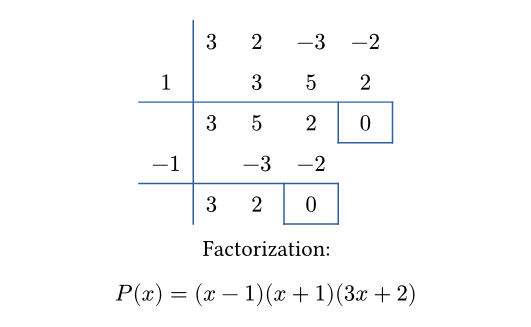
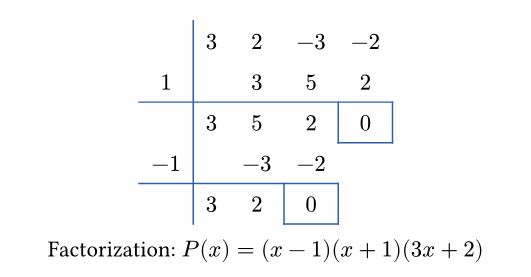
Add exact rational arithmetic (fractions) and a variable parameter

diff --git a/README.md b/README.md
@@ -37,6 +37,18 @@ terms: `x³ − 2x² + 1` → `(1, -2, 0, 1)`.
 **Divisor convention:** `root` is the `a` in `(x − a)`. To divide by `(x + 3)`,
 pass `root: -3`.
 
+**Exact fractions.** Arithmetic is exact (rational), not floating-point. Pass any
+non-integer value **as a string** so it stays exact and renders as a fraction —
+`"1/3"`, `"-3/4"`, both for `root` and inside `coefficients`. (Writing `1/3`
+directly would be evaluated to `0.333…` by Typst before the package sees it.)
+
+```typ
+#ruffini((2, -1, -1), "-1/2")   // divide by (x + 1/2); shows −1/2 as a fraction
+```
+
+**Variable.** The rendered labels use `x` by default; pass `variable: "t"` (or any
+letter) to write `C(t)`, `P(z)`, `(t − 2)`, …
+
 ## `ruffini(coefficients, root, ...)`
 
 One division `P(x) ÷ (x − root)`, rendered as the three-row tableau
@@ -44,9 +56,10 @@ One division `P(x) ÷ (x − root)`, rendered as the three-row tableau
 
 | Parameter             | Default      | Meaning |
 |-----------------------|--------------|---------|
-| `coefficients`        | *(required)* | Array, highest degree first, zeros included. |
-| `root`                | *(required)* | The `a` in `(x − a)`. Can be an integer or a decimal. |
+| `coefficients`        | *(required)* | Array, highest degree first, zeros included. Ints or string fractions (`"1/2"`). |
+| `root`                | *(required)* | The `a` in `(x − a)`. Int, or a string fraction like `"1/3"`. |
 | `lang`                | `"en"`       | Language of the rendered words: `"en"` or `"es"`. |
+| `variable`            | `"x"`        | The polynomial's variable in the rendered labels. |
 | `color`               | blue         | Accent color of the L-rule and the remainder box. |
 | `show-result`         | `true`       | Append the *Quotient / Remainder* line. |
 | `highlight-remainder` | `true`       | Draw the box around the remainder cell. |
@@ -60,8 +73,9 @@ factorization; otherwise it says so.
 | Parameter     | Default      | Meaning |
 |---------------|--------------|---------|
 | `coefficients`| *(required)* | Array, highest degree first, zeros included. |
-| `roots`       | *(required)* | The successive values `a` to divide by, in order. |
+| `roots`       | *(required)* | The successive values `a` to divide by, in order. Ints or string fractions. |
 | `lang`        | `"en"`       | `"en"` or `"es"`. |
+| `variable`    | `"x"`        | The polynomial's variable in the rendered labels. |
 | `color`       | blue         | Accent color of the rules. |
 | `show-result` | `true`       | Append the *Factorization* line. |
 | `highlight-remainder` | `true` | Box each division's remainder cell. |
@@ -77,7 +91,7 @@ factor of degree ≥ 2 remains, shows it in parentheses — e.g.
 | Exact division | Remainder `0`, boxed; quotient shown. |
 | **Nonzero remainder** | Boxed remainder; `R = …` in the result line. |
 | Missing terms | Handled via the explicit zero coefficients you pass. |
-| **Decimal / fractional root** | Works; numbers round to 2 decimals for display. |
+| **Fractional root / coefficients** | Exact rational arithmetic; rendered as fractions (pass them as strings). |
 | Leading coefficient ≠ 1 | Preserved through the staircase and in the factorization. |
 | **Irreducible quotient** | `ruffini-factor` stops and shows `(…)` for the remaining factor. |
 | Supplied value is not a root | `ruffini-factor` reports "not an exact division". |

diff --git a/ROADMAP.md b/ROADMAP.md
@@ -11,15 +11,18 @@ Known limits and possible improvements. Nothing here blocks ordinary use.
 - **Linear divisors only.** Ruffini's rule divides by `(x − a)`. Dividing by a
   higher-degree polynomial is ordinary long division — out of scope.
 
+## Done
+
+- **`variable` parameter** — the rendered labels can use `t`, `z`, … (v0.1.0).
+- **Exact fractions** — rational arithmetic throughout; rationals passed as
+  strings render as fractions (v0.1.0).
+
 ## Possible improvements (optional)
 
-- **A `variable` parameter** so the polynomial can be written in `t`, `z`, … as
-  well as `x`.
-- **Fraction display** for rational roots/coefficients (e.g. show `1/2` instead
-  of `0.5`), perhaps via an optional `frac: true`.
 - **More localization languages** in `_i18n` (currently `en`, `es`).
 - **A colored trail** joining each result to the product it feeds, as an optional
-  teaching aid for the "multiply–add" flow.
+  teaching aid for the "multiply–add" flow. (Diagonal ×root arrows + vertical sum
+  arrows, colored, showing where each number comes from.)
 - **Reference-image tests** (e.g. `tytanic`) beyond the compile-only battery in
   `tests/regression.typ`.
 

diff --git a/TESTING.md b/TESTING.md
@@ -29,6 +29,13 @@ Then check, page by page:
 - [ ] **Inexact** (a supplied value is not a root) — line reads "not an exact
   division (nonzero remainder)".
 - [ ] **Factor + Spanish** — Factorización.
+- [ ] **Fractional root** (`"-1/2"`) — the root and results render as real stacked
+  fractions; arithmetic is exact (remainder `0`, not `0.0…`).
+- [ ] **Fractional coefficients** (`"1/2", 0, "-1/3"`) — quotient `½x + ½`,
+  remainder `⅙`, all exact.
+- [ ] **Factor with a fractional root** — `P(x) = 2(x + ½)(x − 1)`.
+- [ ] **Custom variable** (`variable: "t"` / `"z"`) — `C(t)`, `P(z)` and the
+  factors use the given letter.
 
 ## Gallery
 